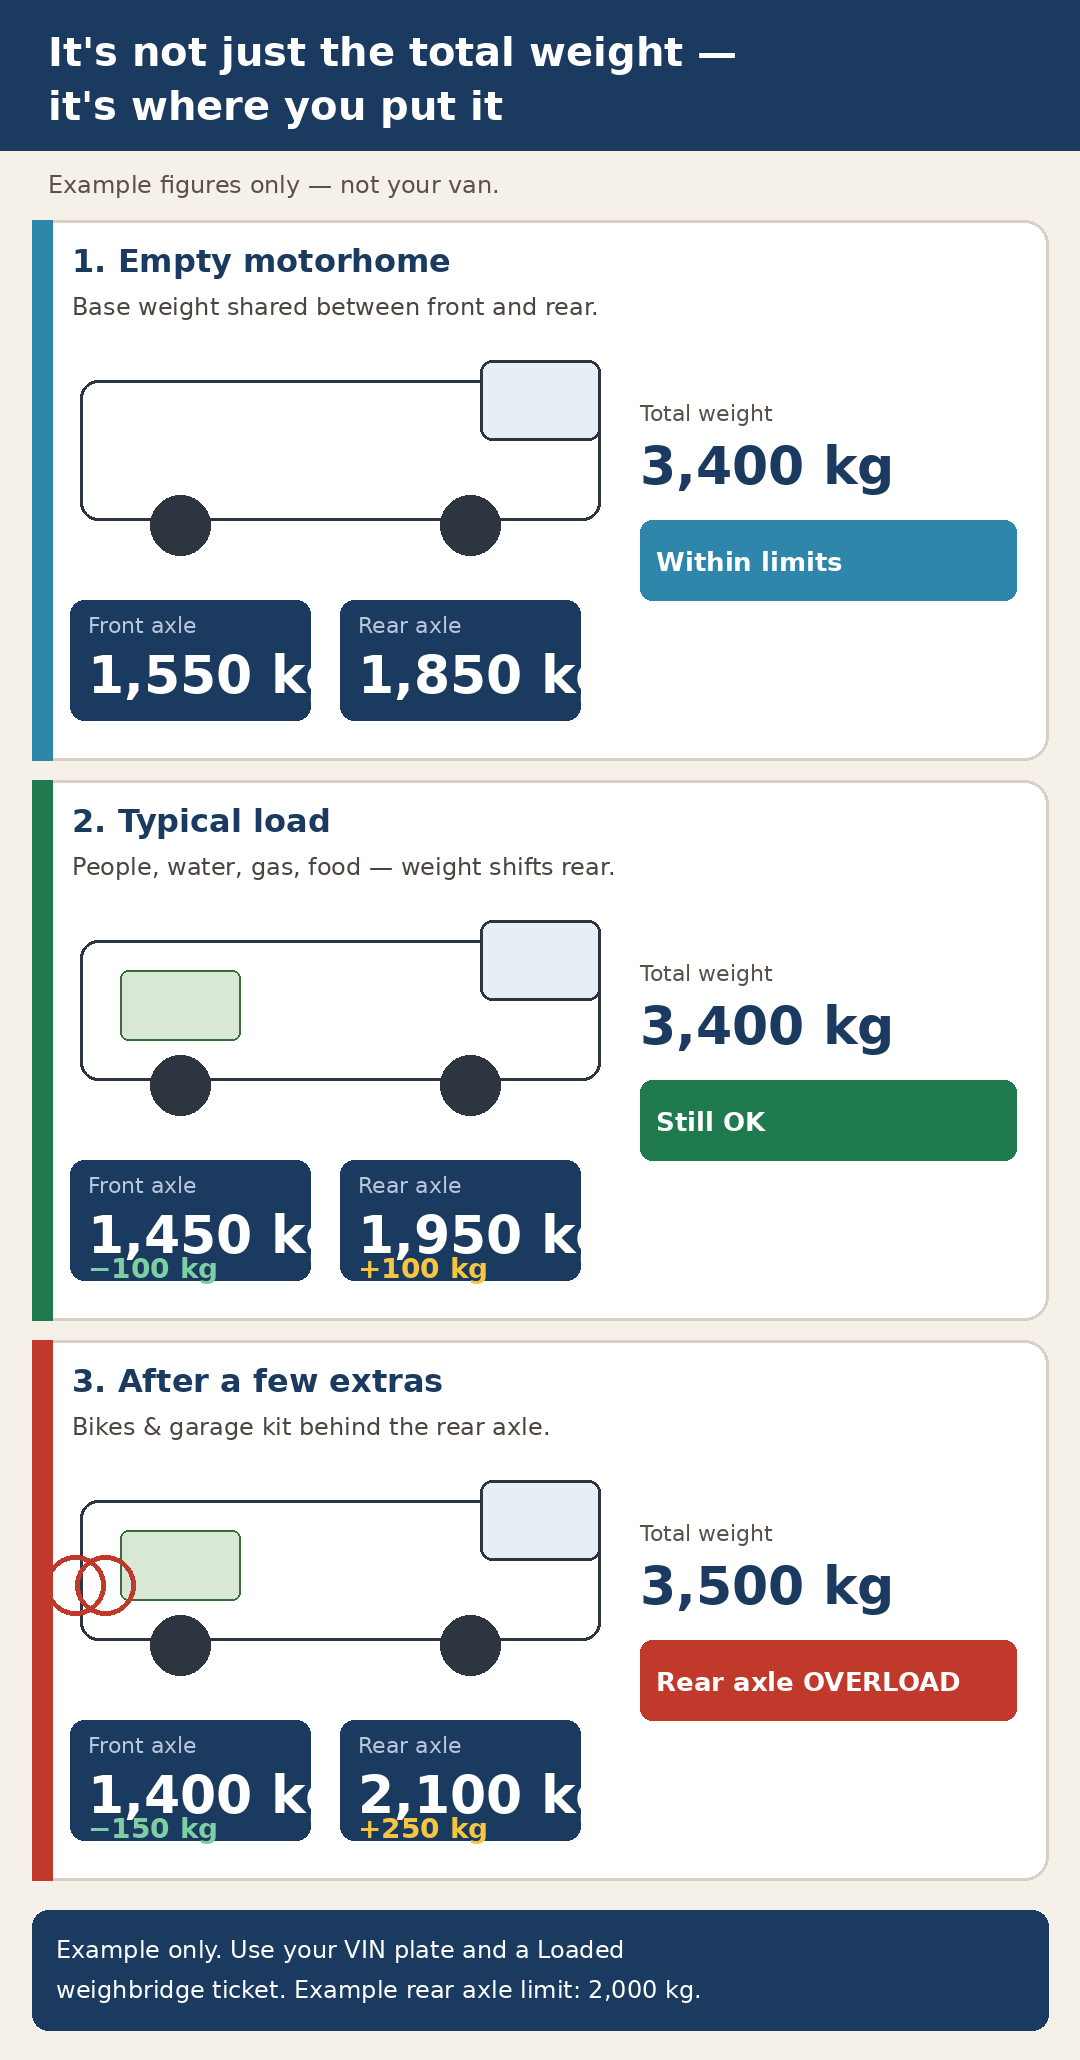
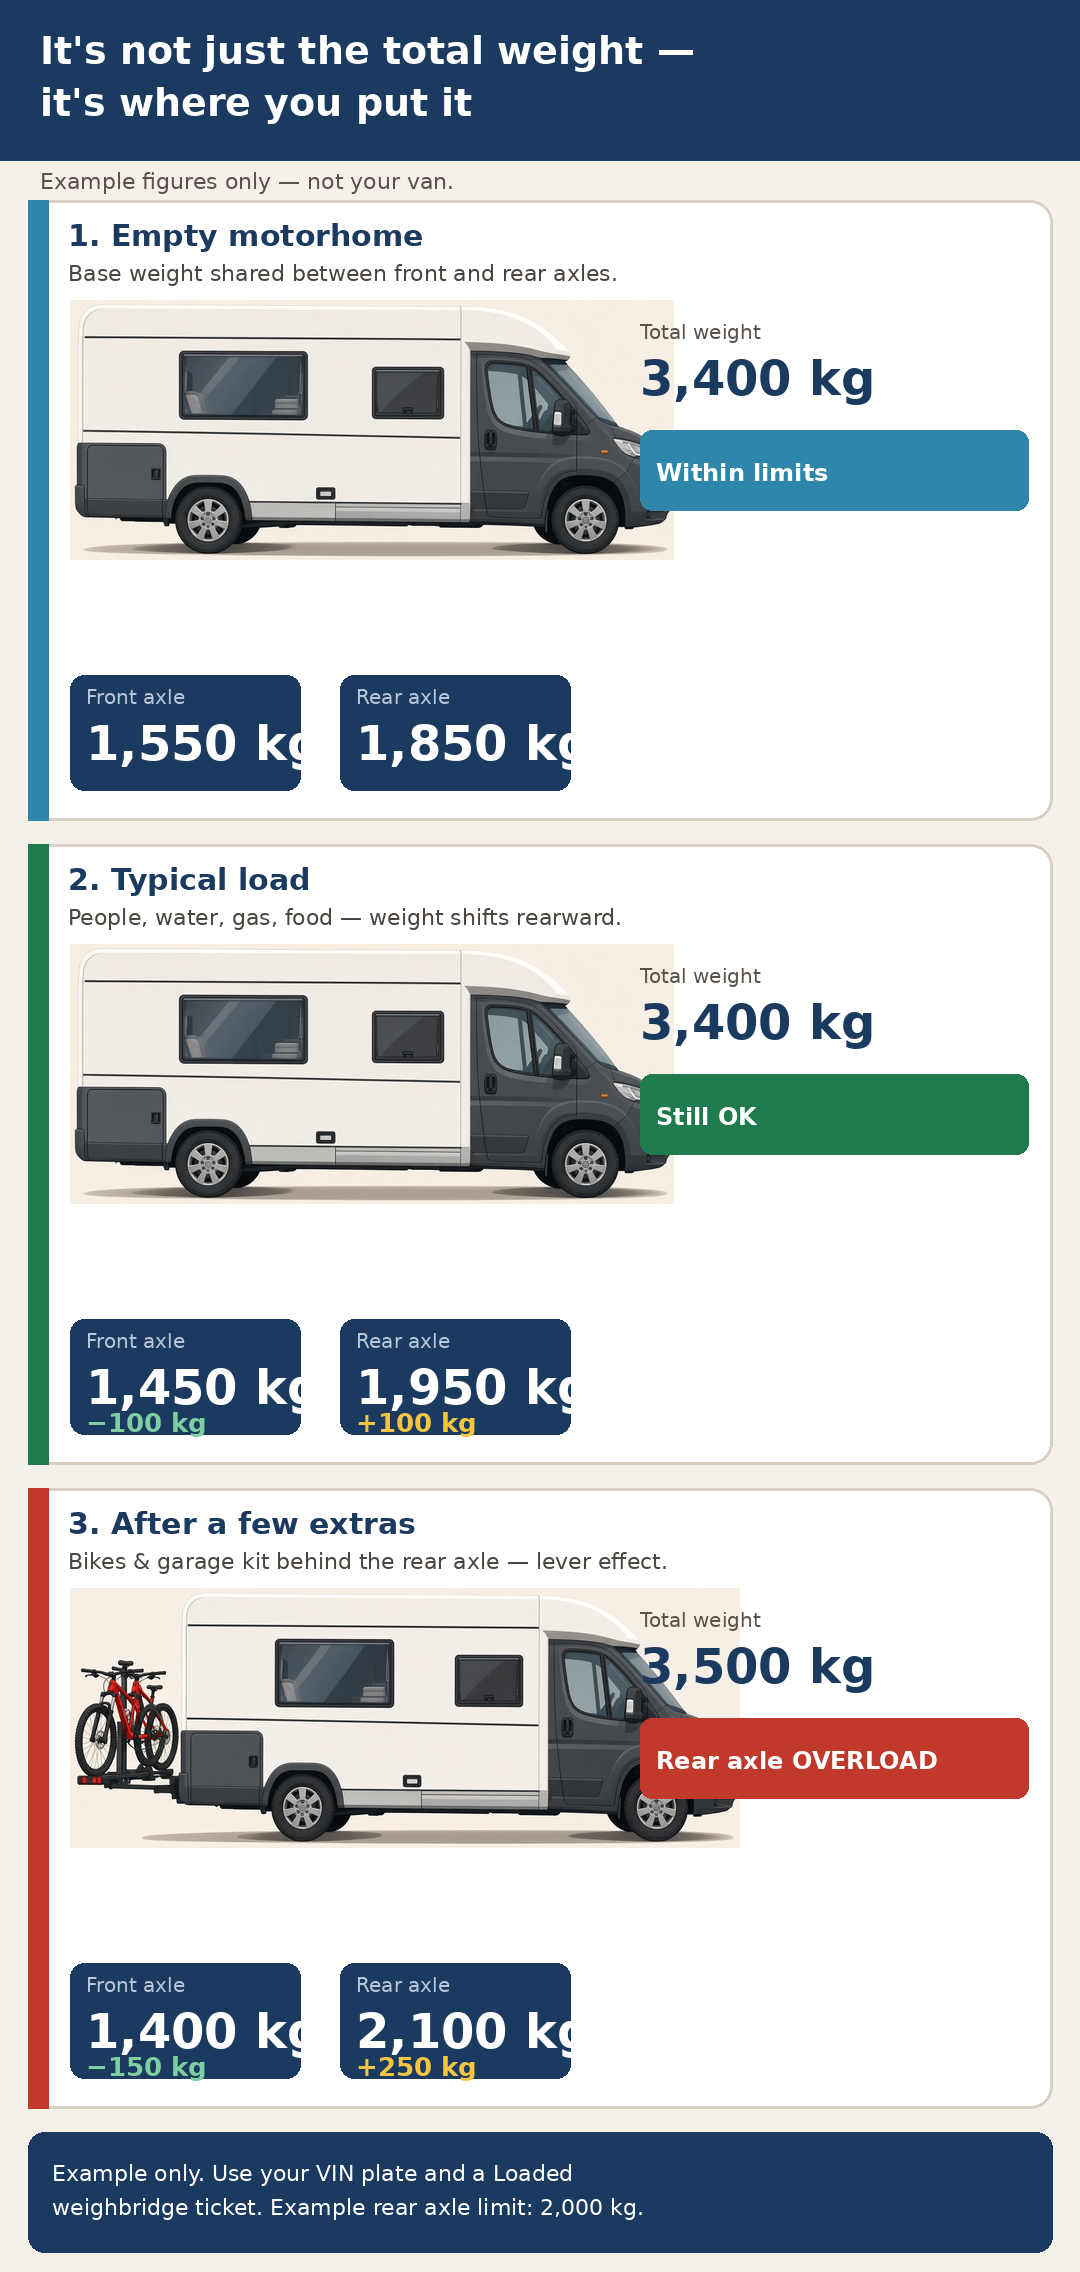
Use Wayne's realistic coachbuilt diagram on where-you-put-it
Replace the boxy van silhouette with the clearer large-number coachbuilt PNG. Keep the HTML scenario cards, caption, and SEO title/meta/H1. Cache-bust bumped to 20260915ab.

diff --git a/guides/where-you-put-it.html b/guides/where-you-put-it.html
@@ -42,19 +42,19 @@
       ]
     }
     </script>
-    <link rel="icon" href="../assets/favicon.svg?v=20260915aa" type="image/svg+xml">
-    <link rel="icon" href="../assets/favicon-32.png?v=20260915aa" type="image/png" sizes="32x32">
-    <link rel="apple-touch-icon" href="../assets/apple-touch-icon.png?v=20260915aa" sizes="180x180">
-    <link rel="icon" href="../assets/icon-512.png?v=20260915aa" type="image/png" sizes="512x512">
-    <!-- ASSET_VERSION=20260915aa — bump this query on CSS/JS to force-refresh cached assets. -->
-    <link rel="stylesheet" href="../assets/styles.css?v=20260915aa">
+    <link rel="icon" href="../assets/favicon.svg?v=20260915ab" type="image/svg+xml">
+    <link rel="icon" href="../assets/favicon-32.png?v=20260915ab" type="image/png" sizes="32x32">
+    <link rel="apple-touch-icon" href="../assets/apple-touch-icon.png?v=20260915ab" sizes="180x180">
+    <link rel="icon" href="../assets/icon-512.png?v=20260915ab" type="image/png" sizes="512x512">
+    <!-- ASSET_VERSION=20260915ab — bump this query on CSS/JS to force-refresh cached assets. -->
+    <link rel="stylesheet" href="../assets/styles.css?v=20260915ab">
   </head>
   <body>
     <a class="skip-link" href="#article">Skip to guide</a>
 
     <header class="site-header wrap article-header">
       <a class="site-brand" href="/">
-        <img class="site-logo" src="../assets/logo.svg?v=20260915aa" width="44" height="44" alt="Motorhome Tools">
+        <img class="site-logo" src="../assets/logo.svg?v=20260915ab" width="44" height="44" alt="Motorhome Tools">
         <span class="eyebrow">Motorhome Tools</span>
       </a>
       <nav aria-label="Breadcrumb">
@@ -74,10 +74,10 @@
         <h2>Three example loads</h2>
         <figure class="guide-figure guide-figure--diagram">
           <img
-            src="./assets/where-you-put-it-diagram.png?v=20260915aa"
+            src="./assets/where-you-put-it-diagram.png?v=20260915ab"
             width="1080"
-            height="2060"
-            alt="Example motorhome diagram with large readable numbers for three loads. 1 Empty motorhome: front axle 1,550 kg, rear axle 1,850 kg, total 3,400 kg, within limits. 2 Typical load: front 1,450 kg (−100 kg), rear 1,950 kg (+100 kg), total 3,400 kg, still OK. 3 After extras behind the rear axle: front 1,400 kg (−150 kg), rear 2,100 kg (+250 kg), total 3,500 kg, rear axle overloaded.">
+            height="2272"
+            alt="Example-only diagram of a realistic coachbuilt motorhome with large kilogramme figures. 1 Empty motorhome: front axle 1,550 kg, rear axle 1,850 kg, total 3,400 kg, within limits. 2 Typical load: front 1,450 kg (−100 kg), rear 1,950 kg (+100 kg), total 3,400 kg, still OK. 3 After extras with bikes on a rear rack: front 1,400 kg (−150 kg), rear 2,100 kg (+250 kg), total 3,500 kg, rear axle overloaded. Not your van."
           <figcaption>Example figures only. They are not your van. Read your VIN plate and a Loaded weighbridge ticket for real numbers.</figcaption>
         </figure>
         <figure class="guide-figure guide-figure--scenes">
